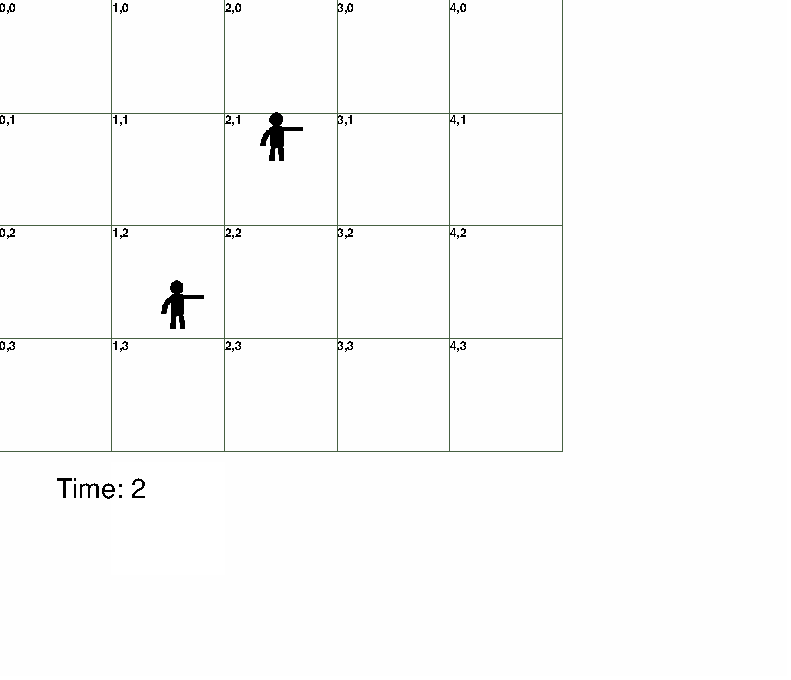
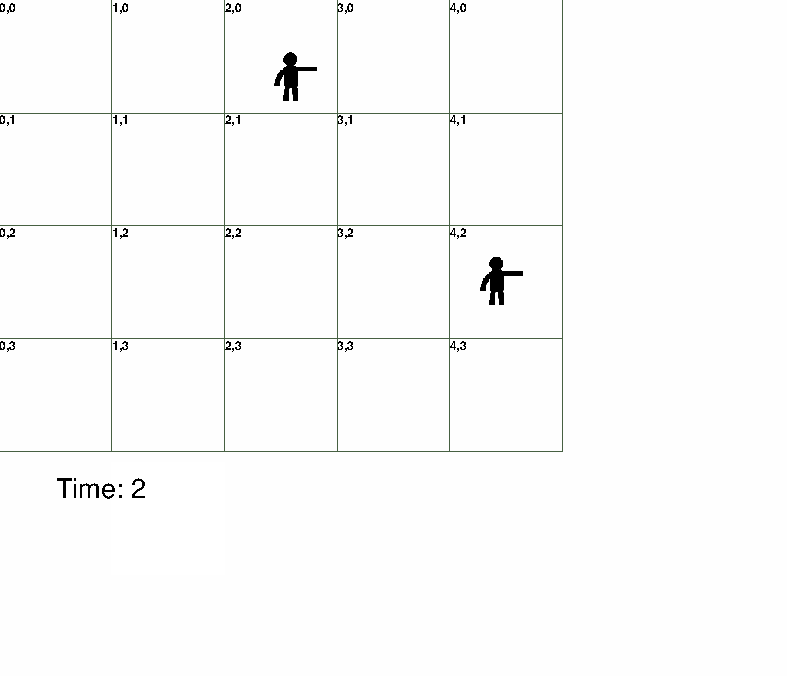
some of Q4

Changed region(s): [[0.3338, 0.0618, 0.3944, 0.2471], [0.6068, 0.3706, 0.6675, 0.4632], [0.182, 0.4015, 0.2427, 0.4941]]

diff --git a/PSET4/hw4_skeleton/src/base_policy.py b/PSET4/hw4_skeleton/src/base_policy.py
@@ -12,7 +12,19 @@ class base_policy:
         # You can give horizontal motion more presidence over vertical motion
         # for example location1 = (1, 1), location2 = (2, 3), the fuction returns 2.
         ################################# Begin your code ###############################
+        horizontal = location2[0] - location1[0]
+        vertical = location2[1] - location1[1]
 
+        if horizontal > 0:
+            dir = 2
+        elif horizontal < 0: 
+            dir = 1
+        elif vertical > 0:
+            dir = 3
+        elif vertical < 0:
+            dir = 4
+        else:
+            dir = 0 
         ################################# End your code ###############################
         return dir
 
@@ -21,6 +33,11 @@ class base_policy:
         # If a request's pickup location is the same as agent ell's location and the taxi is availble, return the 5+index of the request in the outstanding_requests list
         # Else if the taxi is available, return the direction of motion using the taxi ell's location and the nearest request's pickup location
         ################################# Begin your code ###############################
+
+        ell_location = taxi_state_object.agent_locations[ell]
+        
+        print("base policy: " + str(ell) )
+        # .outstanding_requests
 
         ################################# End your code ###############################
         if control_component is None:

diff --git a/PSET4/hw4_skeleton/src/main.py b/PSET4/hw4_skeleton/src/main.py
@@ -40,21 +40,21 @@ def main_question_8(s2):
 if __name__ == '__main__':
 
     print('starting main code here')
-    main_question_1()
+    # main_question_1()
 
-    main_question_2()
+    # main_question_2()
 
-    main_question_3()
+    # main_question_3()
 
-    #s1 = state(None, 1)  # states for 1 agent. Use it in questions 4, 6
+    s1 = state(None, 1)  # states for 1 agent. Use it in questions 4, 6
     # If you want to compare trajectories given by questions 4, 6, you should use the same instance of the state s1
 
-    #s2 = state(None, 2)  # states for 2 agents. Use it in questions 5, 7, 8
+    s2 = state(None, 2)  # states for 2 agents. Use it in questions 5, 7, 8
     # If you want to compare trajectories given by questions 5, 7, 8, you should use the same instance of the state s2
 
-    #main_question_4(s1)
+    # main_question_4(s1)
 
-    #main_question_5(s2)
+    main_question_5(s2)
 
     #main_question_6(s1)
 
